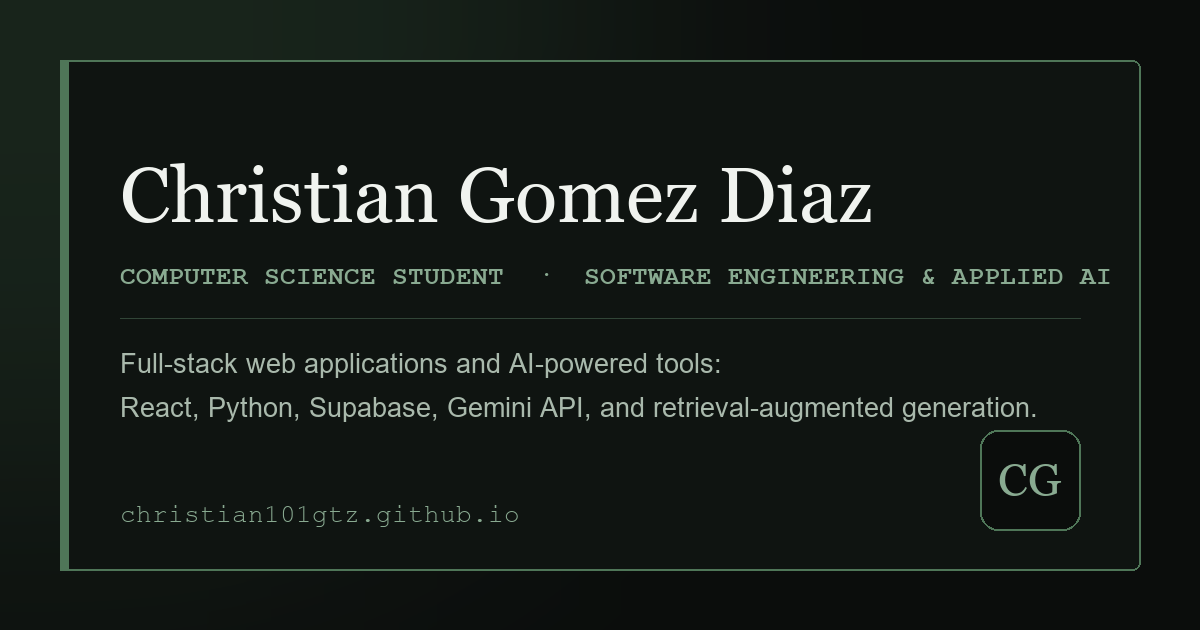
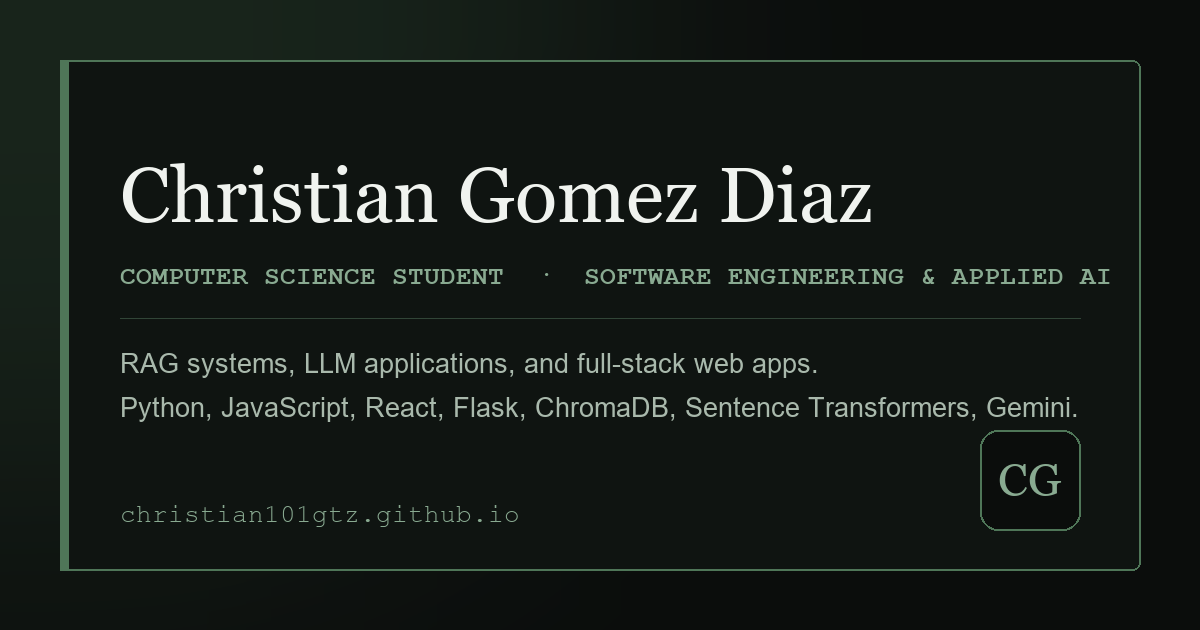
Align portfolio content with resume
- Add A.A.S. from San Bernardino Valley College and a Certifications
  group (CodePath AI Engineering x2 with honors, Google Cloud)
- Add CSUSB AI Research Lab and CineLog code-review cards; add dates
  and detail to College Corps and Pollo Campero
- Rewrite hero, About, and meta descriptions around RAG/LLM/full-stack
- Expand skills to match resume (C++, LangChain, PyTorch, Docker, etc.)
- Enrich project cards with resume details; add Live Demo link for
  The Archive and a pull request link for PathReview
- Describe the PathReview PR as opened rather than merged, matching
  its current state on GitHub

Changed region(s): [[0.0925, 0.5429, 0.6783, 0.6032], [0.0925, 0.6333, 0.8942, 0.6635]]

diff --git a/index.html b/index.html
@@ -7,8 +7,8 @@
     <title>Christian Gomez Diaz | Software Engineering &amp; Applied AI</title>
 
     <meta name="author" content="Christian Alejandro Gomez Diaz">
-    <meta name="description" content="Portfolio of Christian Gomez Diaz, a Computer Science student at CSUSB who builds full-stack web applications and AI-powered tools.">
-    <meta name="keywords" content="Christian Gomez Diaz, portfolio, software engineer, computer science, web development, artificial intelligence, full-stack, React, Python, CSUSB">
+    <meta name="description" content="Portfolio of Christian Gomez Diaz, a Computer Science student at CSUSB who builds RAG systems, LLM applications, and full-stack web apps in Python, JavaScript, React, and Flask.">
+    <meta name="keywords" content="Christian Gomez Diaz, portfolio, software engineer, computer science, web development, artificial intelligence, RAG, LLM, full-stack, React, Python, Flask, CSUSB, San Bernardino">
     <meta name="theme-color" content="#0b0d0c">
 
     <link rel="canonical" href="https://christian101gtz.github.io/Christian_Gomez_Diaz_Intro-26.3/">
@@ -16,12 +16,12 @@
     <!-- Social sharing -->
     <meta property="og:type" content="website">
     <meta property="og:title" content="Christian Gomez Diaz | Software Engineering &amp; Applied AI">
-    <meta property="og:description" content="Computer Science student at CSUSB building full-stack web applications and AI-powered tools.">
+    <meta property="og:description" content="Computer Science student at CSUSB building RAG systems, LLM applications, and full-stack web apps.">
     <meta property="og:url" content="https://christian101gtz.github.io/Christian_Gomez_Diaz_Intro-26.3/">
     <meta property="og:image" content="https://christian101gtz.github.io/Christian_Gomez_Diaz_Intro-26.3/og-image.png">
     <meta name="twitter:card" content="summary_large_image">
     <meta name="twitter:title" content="Christian Gomez Diaz | Software Engineering &amp; Applied AI">
-    <meta name="twitter:description" content="Computer Science student at CSUSB building full-stack web applications and AI-powered tools.">
+    <meta name="twitter:description" content="Computer Science student at CSUSB building RAG systems, LLM applications, and full-stack web apps.">
     <meta name="twitter:image" content="https://christian101gtz.github.io/Christian_Gomez_Diaz_Intro-26.3/og-image.png">
 
     <link rel="icon" href="favicon.svg" type="image/svg+xml">
@@ -36,13 +36,13 @@
         <h1>Christian Gomez Diaz</h1>
 
         <p class="hero-subtitle">
-            Computer Science Student &middot; Software Engineering &amp; Applied AI
+            Computer Science Student &middot; Software Engineering &amp; Applied AI &middot; San Bernardino, CA
         </p>
 
         <p class="hero-intro">
-            I build full-stack web applications and AI-powered tools, from a
-            community archive for historical media to a retrieval-augmented
-            music recommender.
+            I build RAG systems, LLM applications, and full-stack web apps in Python,
+            JavaScript, React, and Flask. Open-source contributor, undergraduate AI
+            researcher, and honors graduate of CodePath's AI engineering programs.
         </p>
 
         <div class="hero-links">
@@ -70,17 +70,19 @@
             <h2>About</h2>
             <p>
                 I'm Christian, a Computer Science student at California State University,
-                San Bernardino focused on software engineering and applied AI. I learn by
-                building. My work ranges from The Archive, a full-stack web app where users
-                share and discuss historical media, to VibeCheck, an AI-powered music
-                recommender built with retrieval-augmented generation.
+                San Bernardino graduating in May 2027. I learn by building. My work ranges
+                from The Archive, a deployed full-stack platform where users publish, vote on,
+                and discuss media worth preserving, to VibeCheck, a hybrid AI music recommender
+                that pairs Gemini with a deterministic scoring engine, to a retrieval-augmented
+                game discovery system built on Sentence Transformers and ChromaDB.
             </p>
             <p>
-                I also contribute to open source: my pull request to PathReview, an
-                open-source portfolio review assistant, was merged through CodePath's AI301
-                program. I'm looking for internship and early-career opportunities where I
-                can ship useful software and keep growing as an engineer. Outside of coding,
-                I enjoy music and challenging myself with new ideas.
+                Beyond personal projects, I've contributed to PathReview, an open-source
+                portfolio review tool, worked as an undergraduate researcher in CSUSB's AI
+                Research Lab, and earned honors in CodePath's Foundations and Applications of
+                AI Engineering programs. I'm bilingual in English and Spanish and looking for
+                internship and early-career software engineering roles. Outside of coding, I
+                enjoy music and challenging myself with new ideas.
             </p>
         </section>
 
@@ -93,14 +95,38 @@
                 <div class="experience-grid">
                     <article class="experience-card">
                         <h3>B.S. in Computer Science</h3>
-                        <p class="experience-meta">California State University, San Bernardino &middot; Expected 2027</p>
-                        <p>Senior focused on software engineering and applied artificial intelligence.</p>
+                        <p class="experience-meta">California State University, San Bernardino &middot; Expected May 2027</p>
+                        <p>Focus on software engineering and applied artificial intelligence.</p>
                     </article>
 
                     <article class="experience-card">
-                        <h3>Web Development &amp; Applied AI Coursework</h3>
-                        <p class="experience-meta">CodePath &middot; Code the Dream</p>
-                        <p>Project-based courses covering React front ends, Flask REST APIs, retrieval-augmented generation, and open-source contribution workflows.</p>
+                        <h3>A.A.S. in Computer Science</h3>
+                        <p class="experience-meta">San Bernardino Valley College &middot; May 2024</p>
+                        <p>Associate of Applied Science, completed before transferring to CSUSB.</p>
+                    </article>
+                </div>
+            </div>
+
+            <div class="experience-group">
+                <p class="group-title">Certifications</p>
+
+                <div class="experience-grid">
+                    <article class="experience-card">
+                        <h3>Applications of AI Engineering</h3>
+                        <p class="experience-meta">CodePath &middot; Honors &middot; Summer 2026</p>
+                        <p>RAG systems, LLM pipelines and agents, evaluation, and an open-source contribution project.</p>
+                    </article>
+
+                    <article class="experience-card">
+                        <h3>Foundations of AI Engineering</h3>
+                        <p class="experience-meta">CodePath &middot; Honors &middot; Spring 2026</p>
+                        <p>Machine learning fundamentals, model evaluation, and building AI-powered applications.</p>
+                    </article>
+
+                    <article class="experience-card">
+                        <h3>Google Cloud Computing Foundations</h3>
+                        <p class="experience-meta">Google Cloud &middot; November 2025</p>
+                        <p>Core cloud infrastructure, networking, storage, and deployment on Google Cloud Platform.</p>
                     </article>
                 </div>
             </div>
@@ -111,20 +137,32 @@
                 <div class="experience-grid">
                     <article class="experience-card">
                         <h3>Open Source Contributor</h3>
-                        <p class="experience-meta">PathReview &middot; CodePath AI301 &middot; 2026</p>
-                        <p>Shipped a merged pull request that improved JavaScript/TypeScript skill detection and fixed language-classification false positives.</p>
+                        <p class="experience-meta">PathReview &middot; Summer 2026</p>
+                        <p>Opened pull request #546 fixing JavaScript/TypeScript detection in a document-ingestion pipeline by replacing filename-only checks with syntax-based patterns, resolving issue #148 with 15 tests passing. Caught and fixed a false positive in my own PR where TypeScript's string type matched Python's str pattern.</p>
                     </article>
 
                     <article class="experience-card">
-                        <h3>Fellow</h3>
-                        <p class="experience-meta">California College Corps</p>
-                        <p>Completed a service fellowship with 450 hours of community service.</p>
+                        <h3>Undergraduate Researcher</h3>
+                        <p class="experience-meta">CSUSB AI Research Lab &middot; Spring 2025</p>
+                        <p>Co-authored a proposal for OpportunityScout, an LLM agent that matches students to internships and research openings, and began prototyping with LangChain/LangGraph, Mistral 7B via Ollama, Playwright scraping, and Docker.</p>
                     </article>
 
                     <article class="experience-card">
-                        <h3>Team Member</h3>
-                        <p class="experience-meta">Pollo Campero</p>
-                        <p>Delivered bilingual (English/Spanish) customer service in a fast-paced environment.</p>
+                        <h3>Code-Review Simulation</h3>
+                        <p class="experience-meta">CineLog API &middot; CodePath &middot; 2026</p>
+                        <p>Implemented a watchlist feature in an existing Flask and SQLAlchemy codebase, addressed six rounds of review, rebased onto an upstream UUID migration, and fixed a crash the tests missed by exercising the endpoint end-to-end.</p>
+                    </article>
+
+                    <article class="experience-card">
+                        <h3>College Corps Fellow</h3>
+                        <p class="experience-meta">California College Corps &middot; Aug 2025 &ndash; May 2026</p>
+                        <p>Completed a 450-hour service fellowship supporting middle-school AVID students through one-on-one academic mentoring and classroom assistance.</p>
+                    </article>
+
+                    <article class="experience-card">
+                        <h3>Cashier / Team Member</h3>
+                        <p class="experience-meta">Pollo Campero &middot; San Bernardino, CA &middot; Mar 2023 &ndash; Present</p>
+                        <p>Three-plus years of continuous employment in a fast-paced bilingual environment while carrying a full course load, transferring to CSUSB, and completing a service fellowship.</p>
                     </article>
                 </div>
             </div>

diff --git a/js/index.js b/js/index.js
@@ -66,23 +66,38 @@ document.body.appendChild(footer);
 const skillGroups = [
   {
     title: "Languages",
-    skills: ["Python", "JavaScript", "HTML", "CSS", "SQL"]
-  },
-  {
-    title: "Frontend",
-    skills: ["React", "Vite", "React Router", "Responsive Design"]
-  },
-  {
-    title: "Backend & Data",
-    skills: ["Flask", "Node.js", "Express", "Supabase", "REST APIs"]
+    skills: ["Python", "JavaScript", "SQL", "C++", "HTML", "CSS"]
   },
   {
     title: "AI & Machine Learning",
-    skills: ["Gemini API", "Retrieval-Augmented Generation", "ChromaDB", "NLP", "DistilBERT"]
+    skills: [
+      "Retrieval-Augmented Generation",
+      "LLM Pipelines & Agents",
+      "LangChain / LangGraph",
+      "Sentence Transformers",
+      "ChromaDB",
+      "Hugging Face Transformers",
+      "PyTorch",
+      "scikit-learn",
+      "Gemini API",
+      "Groq API"
+    ]
   },
   {
-    title: "Tools",
-    skills: ["Git", "GitHub", "VS Code", "Open Source Workflow"]
+    title: "Frameworks & Tools",
+    skills: [
+      "React",
+      "Flask",
+      "SQLAlchemy",
+      "Supabase",
+      "Streamlit",
+      "Gradio",
+      "Pytest",
+      "Playwright",
+      "Docker",
+      "Google Cloud",
+      "Git"
+    ]
   }
 ];
 
@@ -110,27 +125,38 @@ for (const group of skillGroups) {
 // Featured projects
 // ---------------------------------------------------------
 
+// Each entry: display name, GitHub repo name, description, tech tags,
+// and optional extra links (demo for a live site, pr for a pull request).
 const featuredProjects = [
   {
     name: "The Archive",
     repo: "The_Archive",
+    demo: "https://thearchive101.netlify.app",
     description:
-      "Community-driven full-stack platform for preserving media, documenting cultural history, and discussing physical collections.",
+      "Deployed full-stack media preservation platform. Authenticated users publish, edit, search, vote on, and comment on media artifacts with image uploads. Built a per-user Votes table and enforced ownership with Supabase Row Level Security policies.",
     tech: ["React", "Vite", "Supabase"]
+  },
+  {
+    name: "PS5 Game Discovery RAG",
+    repo: "ps5-game-discovery-rag",
+    description:
+      "RAG pipeline over 10 gaming sources (212 chunks): MiniLM embeddings, ChromaDB retrieval, query-specific reranking, and grounded generation with source attribution. Switched to one-game-per-chunk after tests showed multi-game chunks diluted embeddings.",
+    tech: ["Python", "Sentence Transformers", "ChromaDB", "Groq", "Gradio"]
   },
   {
     name: "VibeCheck",
     repo: "Vibe_Check",
     description:
-      "Hybrid AI music recommender that combines Gemini intent parsing, content-based scoring, reliability evaluation, and adaptive user feedback.",
-    tech: ["Python", "Gemini API", "RAG"]
+      "Hybrid AI music recommender. Gemini parses natural-language requests into structured preferences, a deterministic engine scores a hand-labeled 300-song, 78-genre catalog, and Gemini evaluates confidence and retries with relaxed constraints when results are weak. Evaluated against 7 user profiles with a documented model card.",
+    tech: ["Python", "Streamlit", "Gemini 2.5 Flash", "Pytest"]
   },
   {
     name: "PathReview — Open Source Contribution",
     repo: "pathreview",
+    pr: "https://github.com/ascherj/pathreview/pull/546",
     description:
-      "Merged pull request to an open-source portfolio review assistant: improved JavaScript/TypeScript skill detection and fixed language-classification false positives.",
-    tech: ["Open Source", "CodePath AI301"]
+      "Pull request to an open-source portfolio review assistant: fixed JavaScript/TypeScript detection in the document-ingestion pipeline by replacing filename-only detection with syntax-based regex patterns, resolving issue #148 with 15 tests passing.",
+    tech: ["Python", "Pytest", "Open Source"]
   },
   {
     name: "Provenance Guard",
@@ -145,13 +171,6 @@ const featuredProjects = [
     description:
       "NLP classification project comparing a fine-tuned DistilBERT model against a zero-shot LLM baseline on manually labeled r/Games discussion.",
     tech: ["Python", "DistilBERT", "NLP"]
-  },
-  {
-    name: "PS5 Game Discovery RAG",
-    repo: "ps5-game-discovery-rag",
-    description:
-      "Retrieval-augmented game recommender that ingests ten gaming sources, embeds them with Sentence Transformers into ChromaDB, reranks results, and generates grounded answers with source attribution.",
-    tech: ["Python", "ChromaDB", "Sentence Transformers", "Llama 3.3"]
   }
 ];
 
@@ -182,9 +201,11 @@ for (const project of featuredProjects) {
   const links = createElement("div", { className: "project-links" });
 
   if (project.demo) {
-    const demoLink = createElement("a", { text: "Live Demo" });
-    demoLink.href = project.demo;
-    links.appendChild(demoLink);
+    links.appendChild(createExternalLink(project.demo, "Live Demo"));
+  }
+
+  if (project.pr) {
+    links.appendChild(createExternalLink(project.pr, "View Pull Request"));
   }
 
   links.appendChild(
